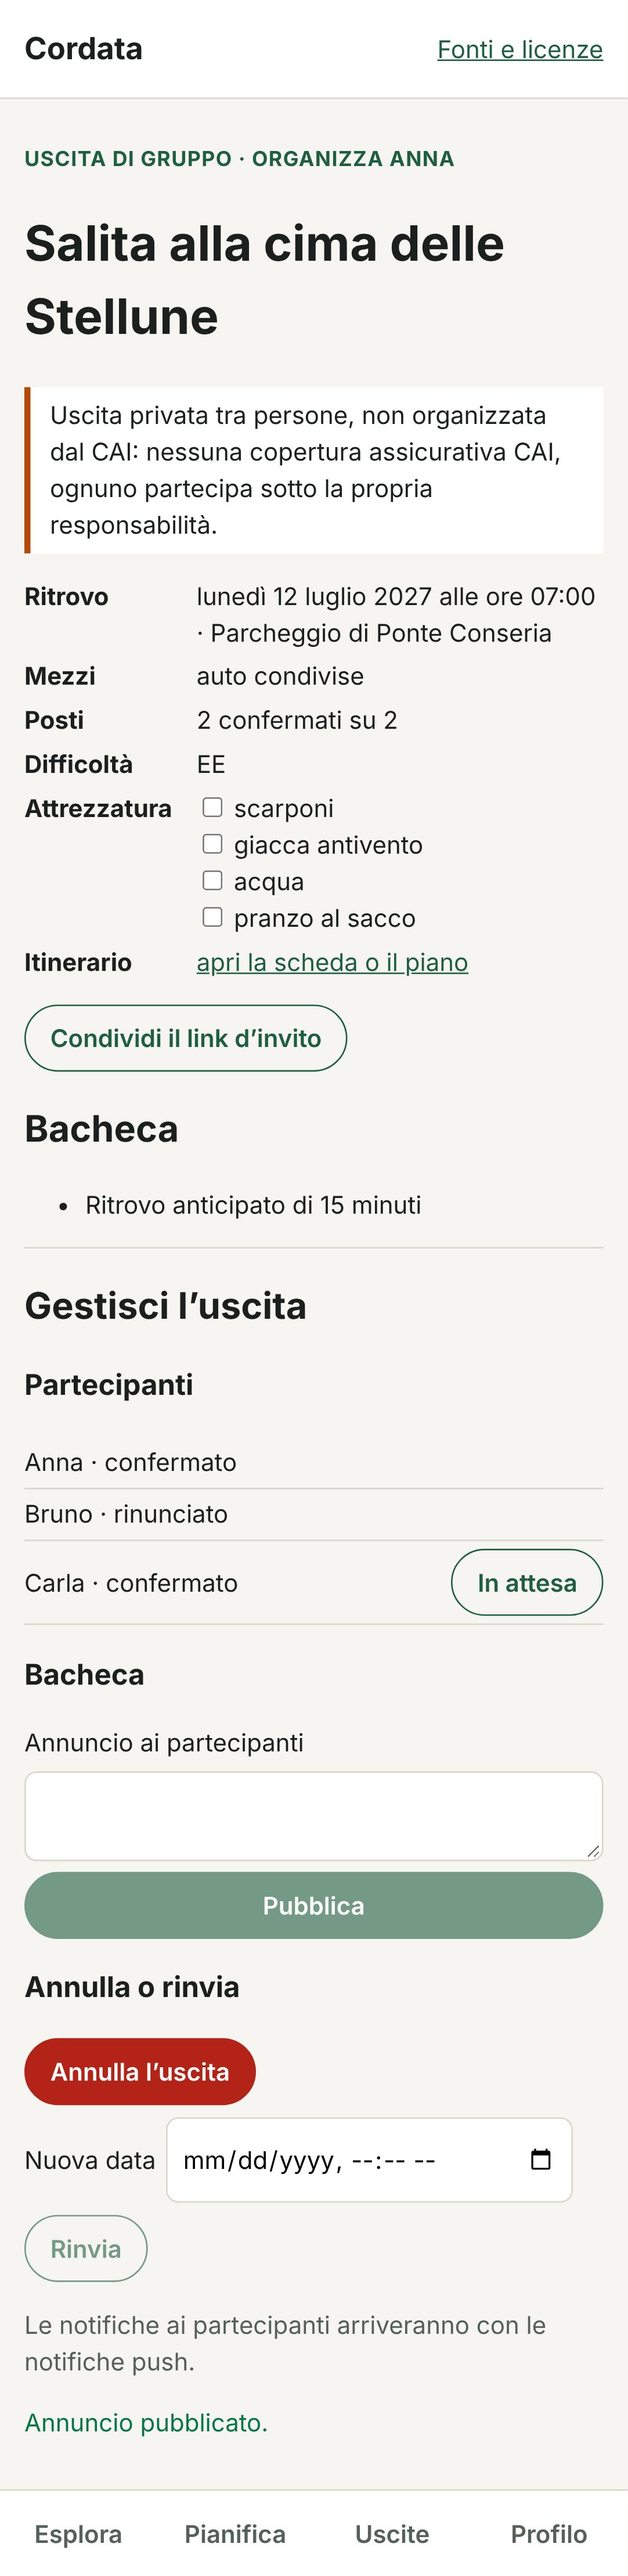
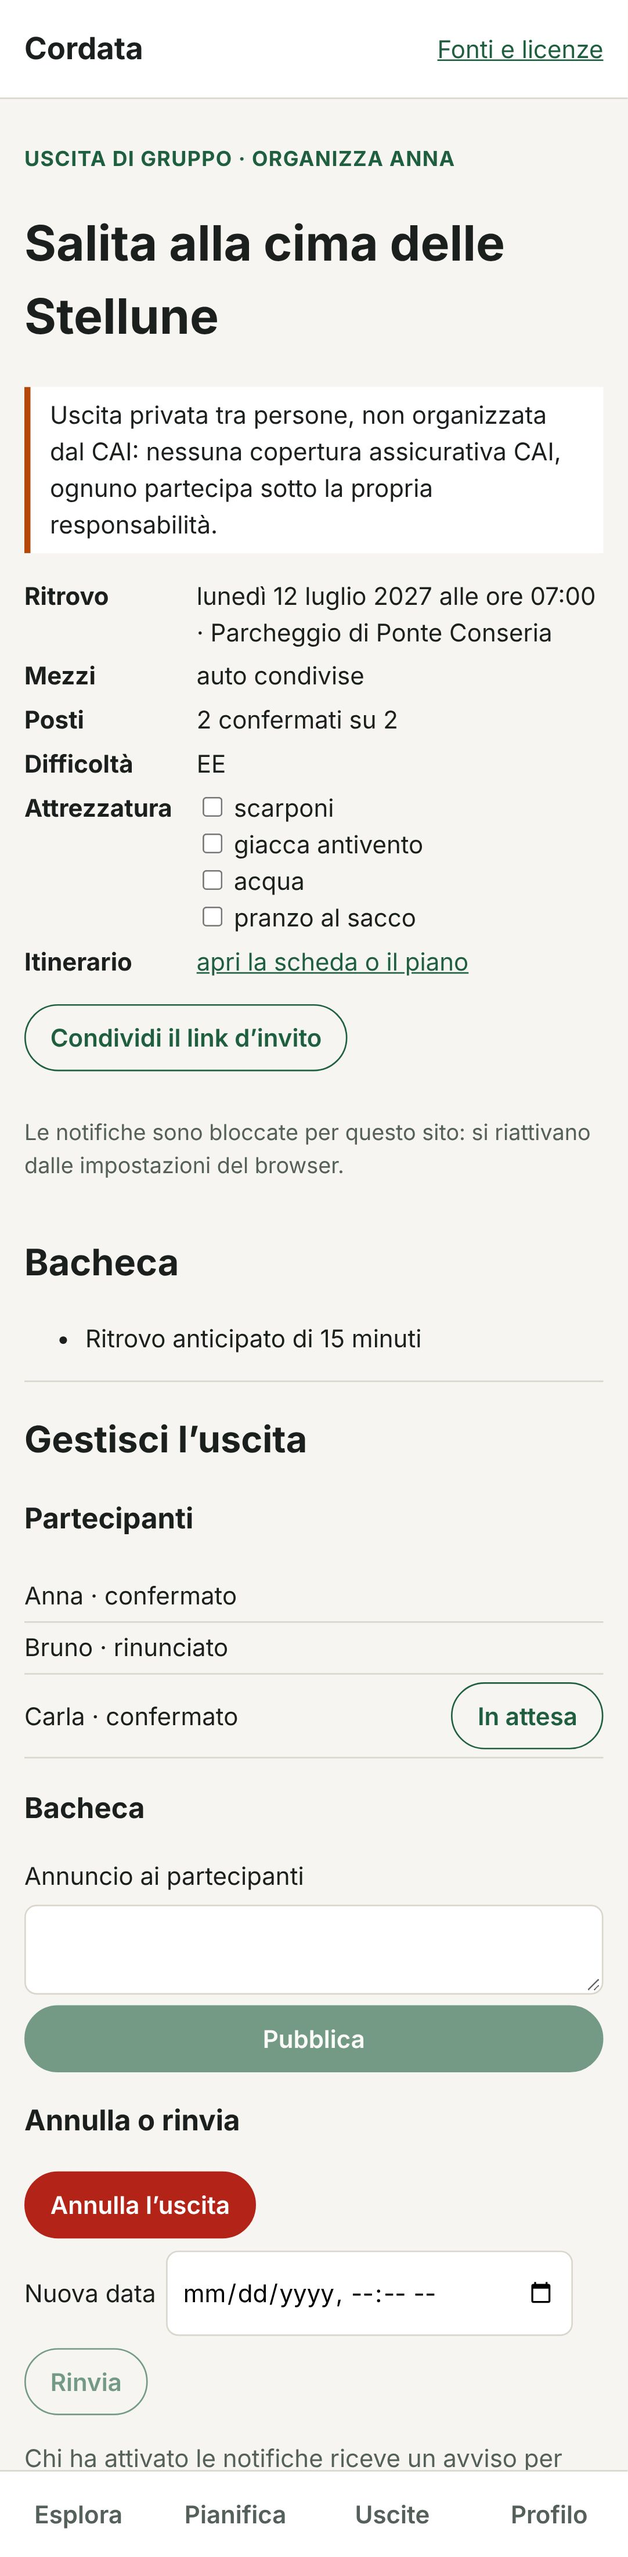
Fase 5: notifiche push nell'app, service worker e manifest
- «Attiva le notifiche» in «Uscite» e sulla pagina invito (nota per iPhone: solo dalla
  schermata Home; Chrome non offre il Push API nelle finestre private)
- service worker minimo: mostra la notifica e apre la pagina dell'uscita
- manifest e icone: l'app si può installare
- il servizio registra le push rifiutate dal servizio push (400/401/403/413/429)
- scripts/vapid-key.mjs: la chiave VAPID va direttamente nei segreti di Cloudflare
- prova end-to-end con una push vera: e2e-notifiche.cjs; report della Fase 5 aggiornato

Claude-Session: https://claude.ai/code/session_01DVTxsXhkNqetCFYJPU6q7i

diff --git a/apps/web/src/lib/uscite/PushToggle.svelte b/apps/web/src/lib/uscite/PushToggle.svelte
@@ -1,0 +1,82 @@
+<script lang="ts">
+	// Notifiche delle uscite: iscrizioni, liste d'attesa, annullamenti, rinvii, promemoria.
+	import { onMount } from 'svelte';
+	import { disablePush, enablePush, needsInstallOnIos, pushState, type PushState } from './push';
+
+	let stato = $state<PushState | null>(null);
+	let busy = $state(false);
+	let error = $state('');
+	const ios = needsInstallOnIos();
+
+	onMount(async () => {
+		stato = await pushState();
+	});
+
+	async function toggle() {
+		busy = true;
+		error = '';
+		try {
+			stato = stato === 'attive' ? await disablePush() : await enablePush();
+		} catch (e) {
+			error =
+				(e as Error).message === 'Notifiche non ancora attive.'
+					? 'Le notifiche non sono ancora attive su questo servizio.'
+					: 'Non è stato possibile attivare le notifiche su questo browser (nelle finestre private di Chrome non sono disponibili).';
+		} finally {
+			busy = false;
+		}
+	}
+</script>
+
+<div class="notifiche">
+	{#if ios}
+		<p class="nota">
+			Su iPhone e iPad le notifiche arrivano solo dopo aver aggiunto Cordata alla schermata Home
+			(Condividi → «Aggiungi a Home»).
+		</p>
+	{:else if stato === 'non-supportate'}
+		<p class="nota">Questo browser non riceve notifiche: ricontrolla la pagina dell’uscita.</p>
+	{:else if stato === 'negate'}
+		<p class="nota">
+			Le notifiche sono bloccate per questo sito: si riattivano dalle impostazioni del browser.
+		</p>
+	{:else if stato}
+		<button type="button" class="secondario" disabled={busy} onclick={toggle}
+			>{stato === 'attive' ? 'Disattiva le notifiche' : 'Attiva le notifiche'}</button
+		>
+		<span class="nota"
+			>{stato === 'attive'
+				? 'Riceverai avvisi su iscrizioni, lista d’attesa, annullamenti, rinvii e il promemoria della sera prima.'
+				: 'Per sapere se un posto si libera, se l’uscita cambia e per il promemoria della sera prima.'}</span
+		>
+	{/if}
+	{#if error}<p class="errore" role="alert">{error}</p>{/if}
+</div>
+
+<style>
+	.notifiche {
+		display: flex;
+		flex-wrap: wrap;
+		gap: 0.5rem;
+		align-items: center;
+		margin: 0.6rem 0;
+	}
+	button {
+		min-height: 44px;
+		padding: 0 1rem;
+		border-radius: 999px;
+		border: 1px solid var(--accent, #1f6f43);
+		background: transparent;
+		color: var(--accent, #1f6f43);
+		font: inherit;
+		font-weight: 600;
+		cursor: pointer;
+	}
+	.nota {
+		color: var(--muted);
+		font-size: 0.9rem;
+	}
+	.errore {
+		color: #b42318;
+	}
+</style>

diff --git a/apps/web/src/lib/uscite/push.ts b/apps/web/src/lib/uscite/push.ts
@@ -1,0 +1,64 @@
+// Iscrizione del browser alle notifiche push delle uscite.
+
+import { pushKey, removePush, savePush } from './api';
+
+export type PushState = 'non-supportate' | 'negate' | 'attive' | 'spente';
+
+export function pushSupported(): boolean {
+	return (
+		typeof navigator !== 'undefined' &&
+		'serviceWorker' in navigator &&
+		typeof window !== 'undefined' &&
+		'PushManager' in window &&
+		'Notification' in window
+	);
+}
+
+/** iPhone e iPad: le notifiche arrivano solo con l'app aggiunta alla schermata Home. */
+export function needsInstallOnIos(): boolean {
+	if (typeof navigator === 'undefined') return false;
+	const ios = /iPhone|iPad|iPod/.test(navigator.userAgent);
+	const standalone =
+		typeof window !== 'undefined' && window.matchMedia?.('(display-mode: standalone)').matches;
+	return ios && !standalone;
+}
+
+function keyBytes(base64url: string): Uint8Array<ArrayBuffer> {
+	const b64 =
+		base64url.replace(/-/g, '+').replace(/_/g, '/') + '==='.slice((base64url.length + 3) % 4);
+	return Uint8Array.from(atob(b64), (c) => c.charCodeAt(0));
+}
+
+export async function pushState(): Promise<PushState> {
+	if (!pushSupported()) return 'non-supportate';
+	if (Notification.permission === 'denied') return 'negate';
+	const reg = await navigator.serviceWorker.getRegistration();
+	const sub = await reg?.pushManager.getSubscription();
+	return sub ? 'attive' : 'spente';
+}
+
+export async function enablePush(): Promise<PushState> {
+	if (!pushSupported()) return 'non-supportate';
+	const permission = await Notification.requestPermission();
+	if (permission !== 'granted') return 'negate';
+	const { chiave } = await pushKey();
+	const reg = await navigator.serviceWorker.ready;
+	const sub =
+		(await reg.pushManager.getSubscription()) ??
+		(await reg.pushManager.subscribe({
+			userVisibleOnly: true,
+			applicationServerKey: keyBytes(chiave)
+		}));
+	await savePush(sub.toJSON());
+	return 'attive';
+}
+
+export async function disablePush(): Promise<PushState> {
+	const reg = await navigator.serviceWorker.getRegistration();
+	const sub = await reg?.pushManager.getSubscription();
+	if (sub) {
+		await removePush(sub.endpoint).catch(() => undefined);
+		await sub.unsubscribe();
+	}
+	return 'spente';
+}

diff --git a/apps/web/src/service-worker.ts b/apps/web/src/service-worker.ts
@@ -1,0 +1,51 @@
+/// <reference no-default-lib="true"/>
+/// <reference lib="esnext" />
+/// <reference lib="webworker" />
+// Service worker minimo per le notifiche delle uscite (Fase 5). La cache per l'uso offline
+// arriverà nella Fase 7: qui nessuna risposta viene intercettata.
+
+const sw = self as unknown as ServiceWorkerGlobalScope;
+
+interface Message {
+	titolo?: string;
+	testo?: string;
+	url?: string;
+}
+
+sw.addEventListener('install', () => {
+	void sw.skipWaiting();
+});
+
+sw.addEventListener('activate', (event) => {
+	event.waitUntil(sw.clients.claim());
+});
+
+sw.addEventListener('push', (event) => {
+	let msg: Message;
+	try {
+		msg = event.data?.json() ?? {};
+	} catch {
+		msg = { testo: event.data?.text() };
+	}
+	event.waitUntil(
+		sw.registration.showNotification(msg.titolo ?? 'Cordata', {
+			body: msg.testo ?? '',
+			icon: new URL('icons/icona-192.png', sw.registration.scope).href,
+			data: { url: msg.url ?? sw.registration.scope },
+			lang: 'it'
+		})
+	);
+});
+
+sw.addEventListener('notificationclick', (event) => {
+	event.notification.close();
+	const url = (event.notification.data as { url?: string } | null)?.url ?? sw.registration.scope;
+	event.waitUntil(
+		(async () => {
+			const windows = await sw.clients.matchAll({ type: 'window', includeUncontrolled: true });
+			const open = windows.find((w) => w.url === url);
+			if (open) return open.focus();
+			return sw.clients.openWindow(url);
+		})()
+	);
+});

diff --git a/apps/web/src/routes/uscita/+page.svelte b/apps/web/src/routes/uscita/+page.svelte
@@ -3,6 +3,7 @@
 	import { onMount } from 'svelte';
 	import { resolve } from '$app/paths';
 	import AccessPanel from '#lib/uscite/AccessPanel.svelte';
+	import PushToggle from '#lib/uscite/PushToggle.svelte';
 	import {
 		SERVICE_ON,
 		announce,
@@ -64,7 +65,7 @@
 	const seatsText = $derived(
 		u
 			? [
-					`${u.confermati} confermati${u.posti ? ` su ${u.posti}` : ''}`,
+					`${u.confermati} ${u.confermati === 1 ? 'confermato' : 'confermati'}${u.posti ? ` su ${u.posti}` : ''}`,
 					u.in_attesa ? `${u.in_attesa} in lista d’attesa` : ''
 				]
 					.filter(Boolean)
@@ -205,6 +206,10 @@
 			{/if}
 		</section>
 
+		{#if u.sono_organizzatore || u.mio_stato === 'confermato' || u.mio_stato === 'attesa'}
+			<PushToggle />
+		{/if}
+
 		{#if u.annunci.length}
 			<section aria-labelledby="bacheca">
 				<h2 id="bacheca">Bacheca</h2>
@@ -288,7 +293,9 @@
 						>Rinvia</button
 					>
 				</div>
-				<p class="nota">Le notifiche ai partecipanti arriveranno con le notifiche push.</p>
+				<p class="nota">
+					Chi ha attivato le notifiche riceve un avviso per annullamenti, rinvii e annunci.
+				</p>
 			</section>
 		{/if}
 		{#if notice}<p class="ok" role="status">{notice}</p>{/if}

diff --git a/apps/web/src/routes/uscite/+page.svelte b/apps/web/src/routes/uscite/+page.svelte
@@ -2,6 +2,7 @@
 	import { onMount } from 'svelte';
 	import { resolve } from '$app/paths';
 	import AccessPanel from '#lib/uscite/AccessPanel.svelte';
+	import PushToggle from '#lib/uscite/PushToggle.svelte';
 	import { SERVICE_ON, logout, me, myOutings, type Utente } from '#lib/uscite/api.ts';
 	import { formatWhen } from '#lib/uscite/local.ts';
 
@@ -71,6 +72,7 @@
 			>
 		</p>
 		<p><a class="bottone" href={resolve('/uscite/nuova')}>Organizza un’uscita</a></p>
+		<PushToggle />
 		<h2>Le mie uscite</h2>
 		{#if list.length}
 			<ul class="elenco">

diff --git a/apps/web/src/lib/uscite/api.ts b/apps/web/src/lib/uscite/api.ts
@@ -196,3 +196,9 @@ export const myOutings = () =>
 			mio_stato: string;
 		}[];
 	}>('GET', '/api/uscite');
+
+// notifiche push (ADR 0014): chiave pubblica VAPID e iscrizione del browser
+export const pushKey = () => call<{ chiave: string }>('GET', '/api/notifiche/chiave');
+export const savePush = (sub: PushSubscriptionJSON) => call('POST', '/api/notifiche', sub);
+export const removePush = (endpoint: string) =>
+	call('POST', '/api/notifiche/rimuovi', { endpoint });

diff --git a/apps/web/src/app.html b/apps/web/src/app.html
@@ -4,6 +4,9 @@
 		<meta charset="utf-8" />
 		<meta name="viewport" content="width=device-width, initial-scale=1" />
 		<meta name="text-scale" content="scale" />
+		<meta name="theme-color" content="#1f5f3f" />
+		<link rel="manifest" href="%sveltekit.assets%/manifest.webmanifest" />
+		<link rel="apple-touch-icon" href="%sveltekit.assets%/icons/apple-touch-icon.png" />
 		%sveltekit.head%
 	</head>
 	<body data-sveltekit-preload-data="hover">

diff --git a/services/outings/src/push.ts b/services/outings/src/push.ts
@@ -154,6 +154,9 @@ export async function notify(
 				await env.DB.prepare('DELETE FROM notifiche_push WHERE endpoint = ?').bind(sub.endpoint).run();
 			} else if (res.ok) {
 				sent += 1;
+			} else {
+				// 400/401/403: firma VAPID o cifratura rifiutate; 413: troppo lungo; 429: troppe richieste
+				console.warn('push rifiutata', new URL(sub.endpoint).host, res.status);
 			}
 		} catch (err) {
 			console.error('push non inviata', err);

diff --git a/reports/phase5/README.md b/reports/phase5/README.md
@@ -15,7 +15,7 @@ Data: 19/11/2026. Decisioni: [ADR 0014](../../docs/decisions/0014-backend-uscite
 | Bacheca annunci (solo organizzatore → partecipanti) | **fatto** |
 | Condivisione (Web Share o copia del link) | **fatto**; QR code e anteprima Open Graph da fare |
 | Disclaimer «uscita privata, non organizzata dal CAI» | **fatto**, sulla pagina invito, sul modulo e in «Uscite» |
-| Notifiche push e promemoria | da fare: le API restituiscono già chi va avvisato |
+| Notifiche push e promemoria | **fatto**: «Attiva le notifiche» in «Uscite» e sulla pagina invito; avvisi per iscrizioni, lista d'attesa, promozioni, annullamenti, rinvii e annunci; promemoria della sera prima con un cron. App installabile (manifest e icone): su iPhone le notifiche arrivano solo dalla schermata Home |
 | Visibilità «contatti» e feed delle uscite pubbliche vicine | da fare |
 
 **Servizio** (`services/outings`):
@@ -27,8 +27,11 @@ Data: 19/11/2026. Decisioni: [ADR 0014](../../docs/decisions/0014-backend-uscite
 
 ## Prove
 
-- **9 test del servizio** nel runtime dei Workers (Miniflare) con D1 e migrazioni: regole dei
-  posti, permessi, link d'invito, lista d'attesa, annullamento e rinvio, bacheca, sessioni.
+- **14 test del servizio** nel runtime dei Workers (Miniflare) con D1 e migrazioni: regole dei
+  posti, permessi, link d'invito, lista d'attesa, annullamento e rinvio, bacheca, sessioni;
+  cifratura push sul vettore dell'Appendice A della RFC 8291 e decifrata come farebbe il
+  browser, firma VAPID verificata, iscrizioni scadute (410) cancellate, promemoria del giorno
+  prima in ora italiana.
 - **Prova end-to-end** (`apps/web/scripts/e2e-uscite.cjs`), senza account: Worker con
   `wrangler dev` e D1 locale, app compilata con `VITE_USCITE_API`, passkey vere su autenticatori
   virtuali di Chromium.
@@ -38,12 +41,23 @@ Data: 19/11/2026. Decisioni: [ADR 0014](../../docs/decisions/0014-backend-uscite
   - Anna vede i partecipanti e pubblica un annuncio, che Carla legge.
   - «Le mie uscite» elenca l'uscita.
   - Nessun errore in console.
+- **Prova delle notifiche** (`apps/web/scripts/e2e-notifiche.cjs`) con una chiave VAPID usa e
+  getta: Carla organizza e attiva le notifiche, Bruno partecipa, il servizio locale manda una push
+  vera attraverso il servizio push di Chrome e il service worker di Carla mostra «Giro del lago di
+  Tovel — Bruno partecipa all'uscita.».
+  - Chrome non offre il Push API nelle finestre private: la prova usa un profilo persistente e
+    l'app lo spiega se l'attivazione non riesce.
+  - La consegna passa dai server di Google e può richiedere qualche decina di secondi; la prova
+    aspetta fino a un minuto.
+  - Il service worker mostra anche i messaggi consegnati direttamente (CDP `deliverPushMessage`),
+    con icona e link alla pagina dell'uscita; il manifest e le icone si caricano.
 
 | File | Cosa mostra |
 |---|---|
 | `screenshots/1-organizza-telefono.jpg` | Il modulo «Organizza un'uscita» precompilato dalla scheda |
 | `screenshots/2-invito-telefono.jpg` | La pagina invito vista da chi non ha ancora un account |
 | `screenshots/3-organizzatore-telefono.jpg` | La gestione dell'organizzatrice: partecipanti, bacheca, annulla o rinvia |
+| `screenshots/4-notifica-telefono.jpg` | La pagina dell'uscita con le notifiche attive («Disattiva le notifiche») |
 
 ## Per pubblicare il servizio (serve l'account Cloudflare dell'utente)
 
@@ -54,8 +68,6 @@ attivo».
 
 ## Prossimi passi della fase
 
-1. Notifiche Web Push (VAPID): iscrizione del browser, avviso a chi va in lista d'attesa,
-   promozioni, annullamenti, rinvii e annunci; promemoria del giorno prima con un cron.
-2. Anteprima Open Graph e QR code della pagina invito.
-3. Visibilità «contatti» e feed delle uscite pubbliche vicine.
-4. Pubblicazione del servizio, con le chiavi nei segreti di Cloudflare.
+1. Anteprima Open Graph e QR code della pagina invito.
+2. Visibilità «contatti» e feed delle uscite pubbliche vicine.
+3. Pubblicazione del servizio, con le chiavi nei segreti di Cloudflare.

diff --git a/services/outings/README.md b/services/outings/README.md
@@ -2,8 +2,10 @@
 
 Cloudflare Worker + D1 ([ADR 0014](../../docs/decisions/0014-backend-uscite-di-gruppo.md)):
 uscite create dagli utenti, pagina invito, iscrizione con lista d'attesa, azioni
-dell'organizzatore (SPEC §5.4). Accesso con **passkey**; niente email, niente password. Le
-notifiche Web Push arriveranno in un passo successivo: le API restituiscono già chi va avvisato.
+dell'organizzatore (SPEC §5.4). Accesso con **passkey**; niente email, niente password.
+Notifiche **Web Push** senza librerie (cifratura RFC 8291 e firma VAPID RFC 8292 con WebCrypto):
+iscrizioni, lista d'attesa, promozioni, annullamenti, rinvii, annunci e il promemoria della sera
+prima (cron alle 16:00 UTC). Senza chiave VAPID il servizio funziona lo stesso, senza notifiche.
 
 ## In locale (senza account)
 
@@ -29,6 +31,8 @@ pnpm run db:migrate:local && pnpm run dev   # API su http://localhost:8787
 | `POST /api/uscite/:id/partecipanti/:utente` | organizzatore | sposta tra confermati e lista d'attesa |
 | `POST /api/uscite/:id/annunci` | organizzatore | bacheca, letta dai partecipanti |
 | `GET /api/uscite` | con sessione | le mie uscite |
+| `GET /api/notifiche/chiave` | chiunque | chiave pubblica VAPID per `pushManager.subscribe` (404 se le notifiche non sono attive) |
+| `POST /api/notifiche` · `POST /api/notifiche/rimuovi` | con sessione | registra o toglie l'iscrizione push del browser |
 
 La sessione si passa con `Authorization: Bearer <token>`; nel database ci sono solo gli hash di
 sessioni e link d'invito.
@@ -37,7 +41,13 @@ sessioni e link d'invito.
 
 1. `wrangler d1 create cordata-uscite` e l'id ottenuto in `wrangler.jsonc` (`database_id`).
 2. `wrangler d1 migrations apply cordata-uscite --remote`.
-3. `wrangler deploy`. Le chiavi (token di pubblicazione, più avanti la chiave VAPID) stanno nei
-   segreti di Cloudflare e dell'ambiente, **mai nel repository**.
+3. `node scripts/vapid-key.mjs | pnpm exec wrangler secret put VAPID_PRIVATE_JWK`: la chiave
+   privata delle notifiche va direttamente nei segreti di Cloudflare, senza passare da un file.
+4. `wrangler deploy`. Il token di pubblicazione e la chiave VAPID stanno solo nei segreti di
+   Cloudflare e dell'ambiente, **mai nel repository**.
+
+In locale le notifiche si provano con una chiave usa e getta passata a `wrangler dev` con
+`--var "VAPID_PRIVATE_JWK:…"` (i file `.dev.vars` sono esclusi da git); la prova end-to-end è
+`apps/web/scripts/e2e-notifiche.cjs`.
 
 La data di compatibilità è 2026-08-15: è la più recente supportata dal runtime dei test.
